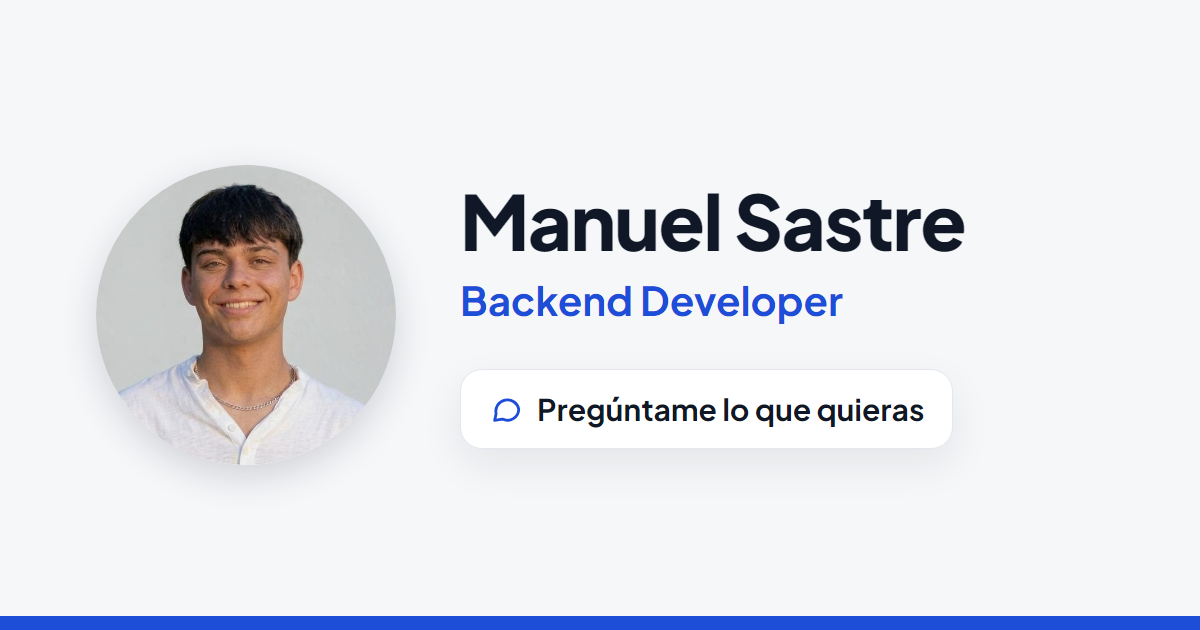
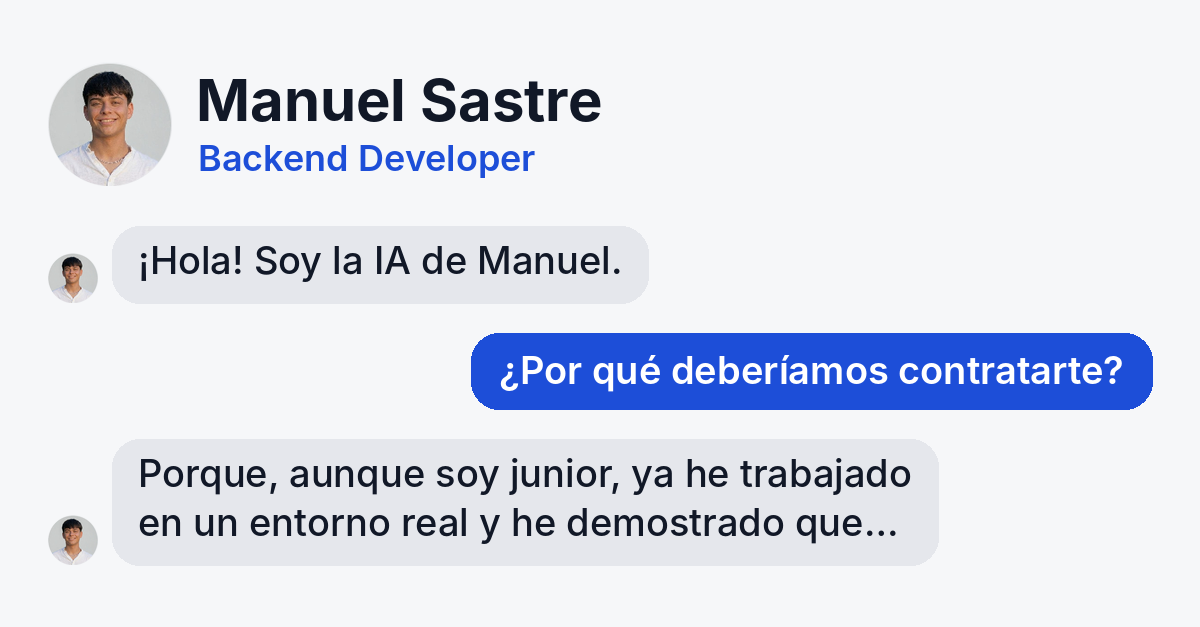
Web: nueva imagen para compartir el enlace (1200x627) con su texto alternativo

Changed region(s): [[0.0308, 0.0909, 0.9867, 0.7879], [0.0308, 0.8182, 0.74, 0.9091], [0.0, 0.9697, 1.0, 1.0]]

diff --git a/app/static/index.html b/app/static/index.html
@@ -15,8 +15,8 @@
   <meta property="og:description" content="Backend Developer en Zaragoza: Python, Docker y APIs. Pregúntale lo que quieras a la IA de mi web.">
   <meta property="og:image" content="{{BASE_URL}}/static/img/og-image.png">
   <meta property="og:image:width" content="1200">
-  <meta property="og:image:height" content="630">
-  <meta property="og:image:alt" content="Manuel Sastre, Backend Developer. Pregúntame lo que quieras.">
+  <meta property="og:image:height" content="627">
+  <meta property="og:image:alt" content="Manuel Sastre, Backend Developer, hablando con su IA">
   <meta name="twitter:card" content="summary_large_image">
   <meta name="twitter:title" content="Manuel Sastre · Backend Developer">
   <meta name="twitter:description" content="Backend Developer en Zaragoza: Python, Docker y APIs. Pregúntale lo que quieras a la IA de mi web.">
